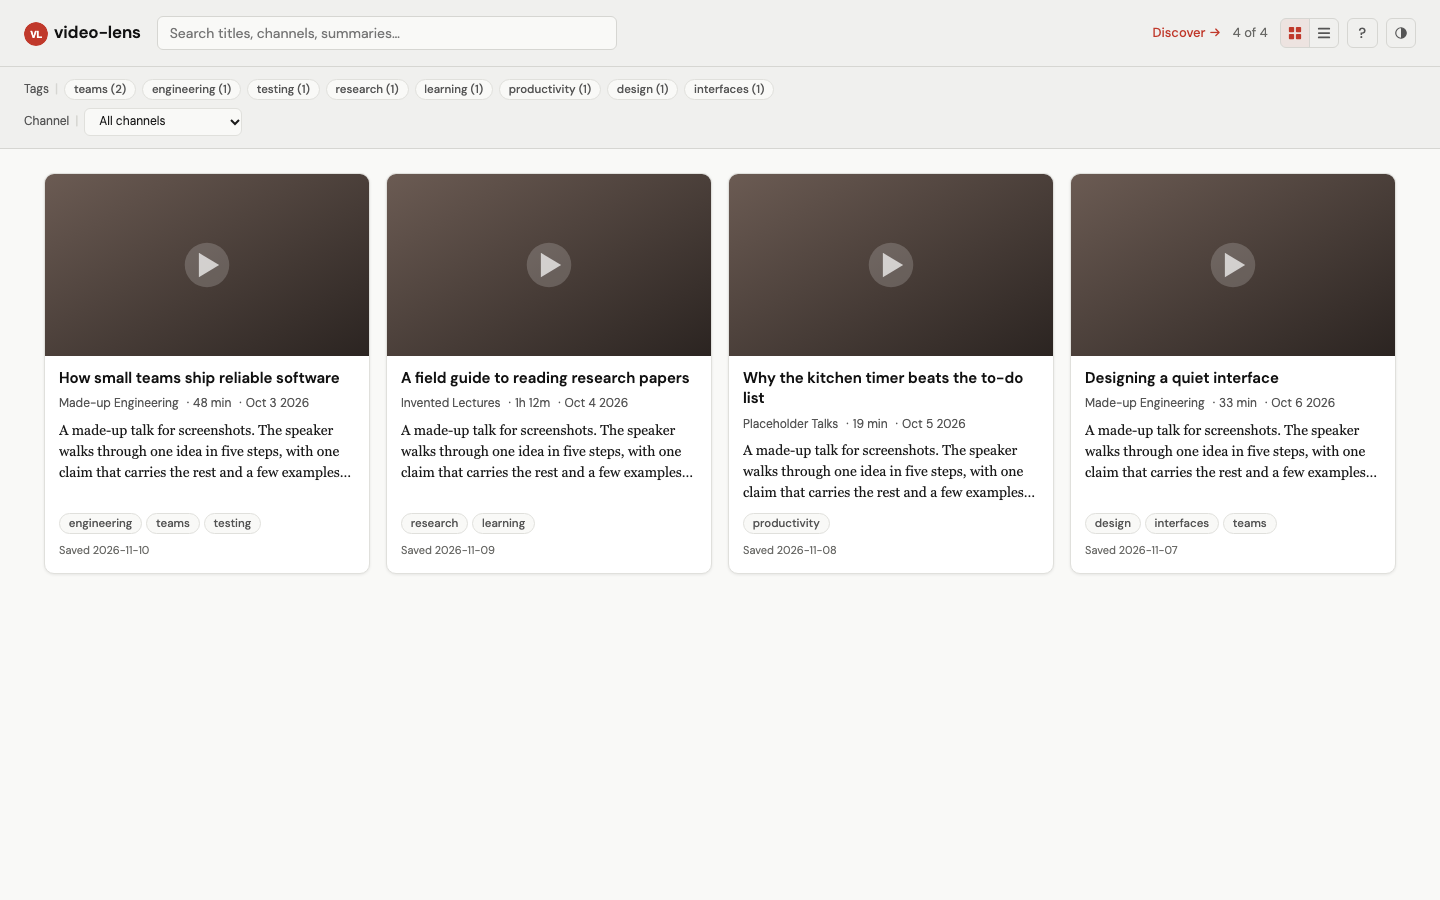
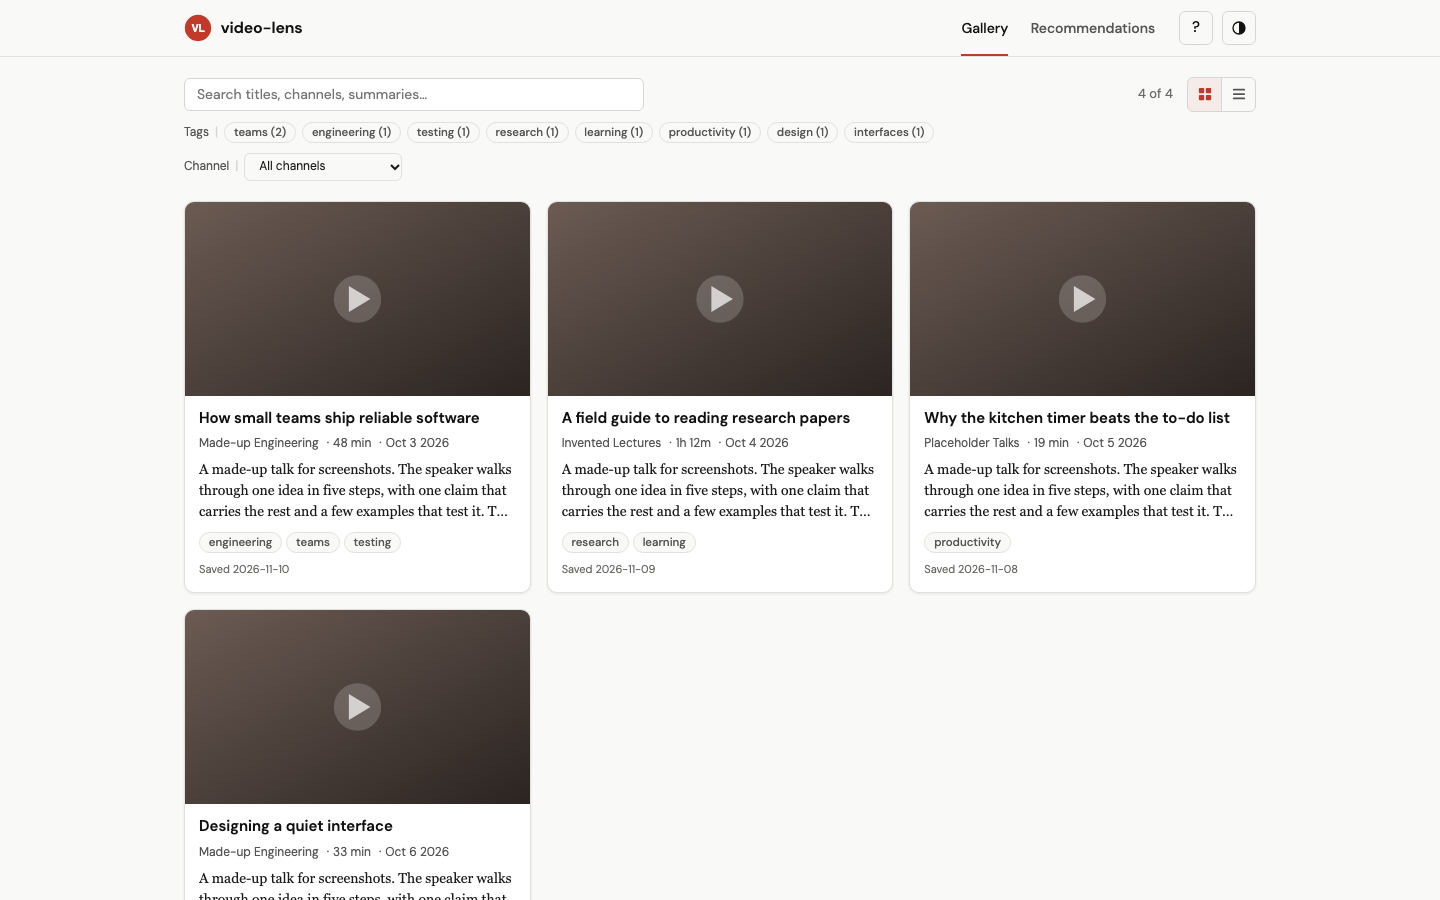
docs(guide): gallery and recommendations screenshots with the 049 top bar; the second file is named for the page

diff --git a/docs/guide.md b/docs/guide.md
@@ -126,7 +126,7 @@ best 12 as a numbered list in the chat, each with a reason, and a Recommendation
 that also lists the rest. Then reply "summarize 1, 4", "not interested in 3", "mute <channel>",
 "more like 2", or "next" for the following 12 from the same run.
 
-<img src="video-lens-discover.png" alt="The Recommendations page: recommended videos with a reason each" width="700">
+<img src="video-lens-recommendations.png" alt="The Recommendations page: recommended videos with a reason each" width="700">
 
 **Privacy.** Watch history is never imported. In live mode each run checks only its candidates
 against your most recent watches, in memory, and records "watched" only for a video it showed
